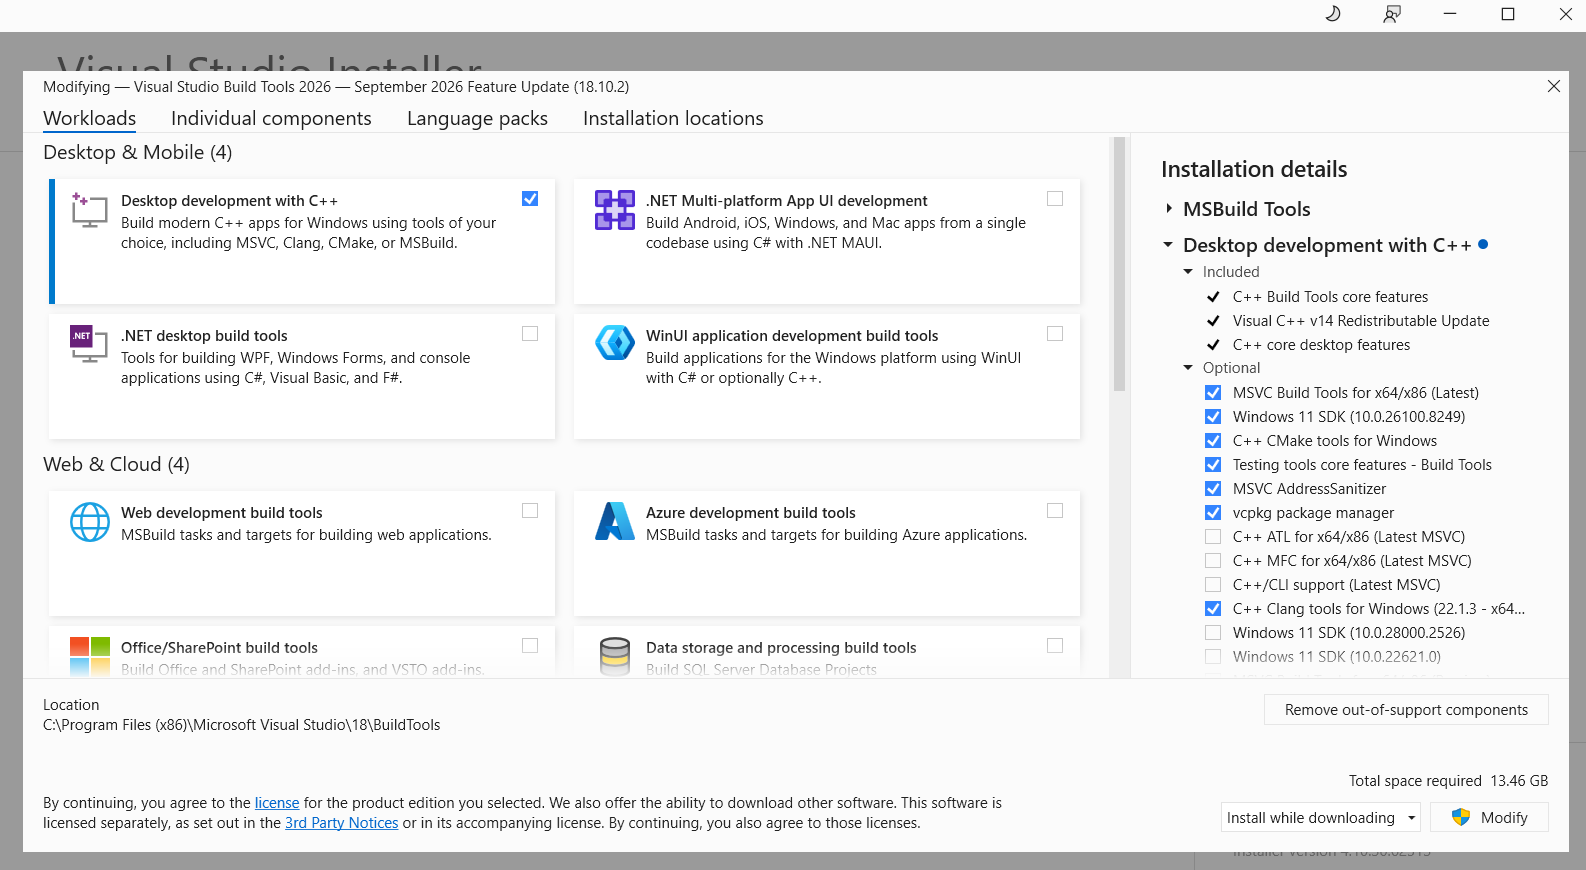
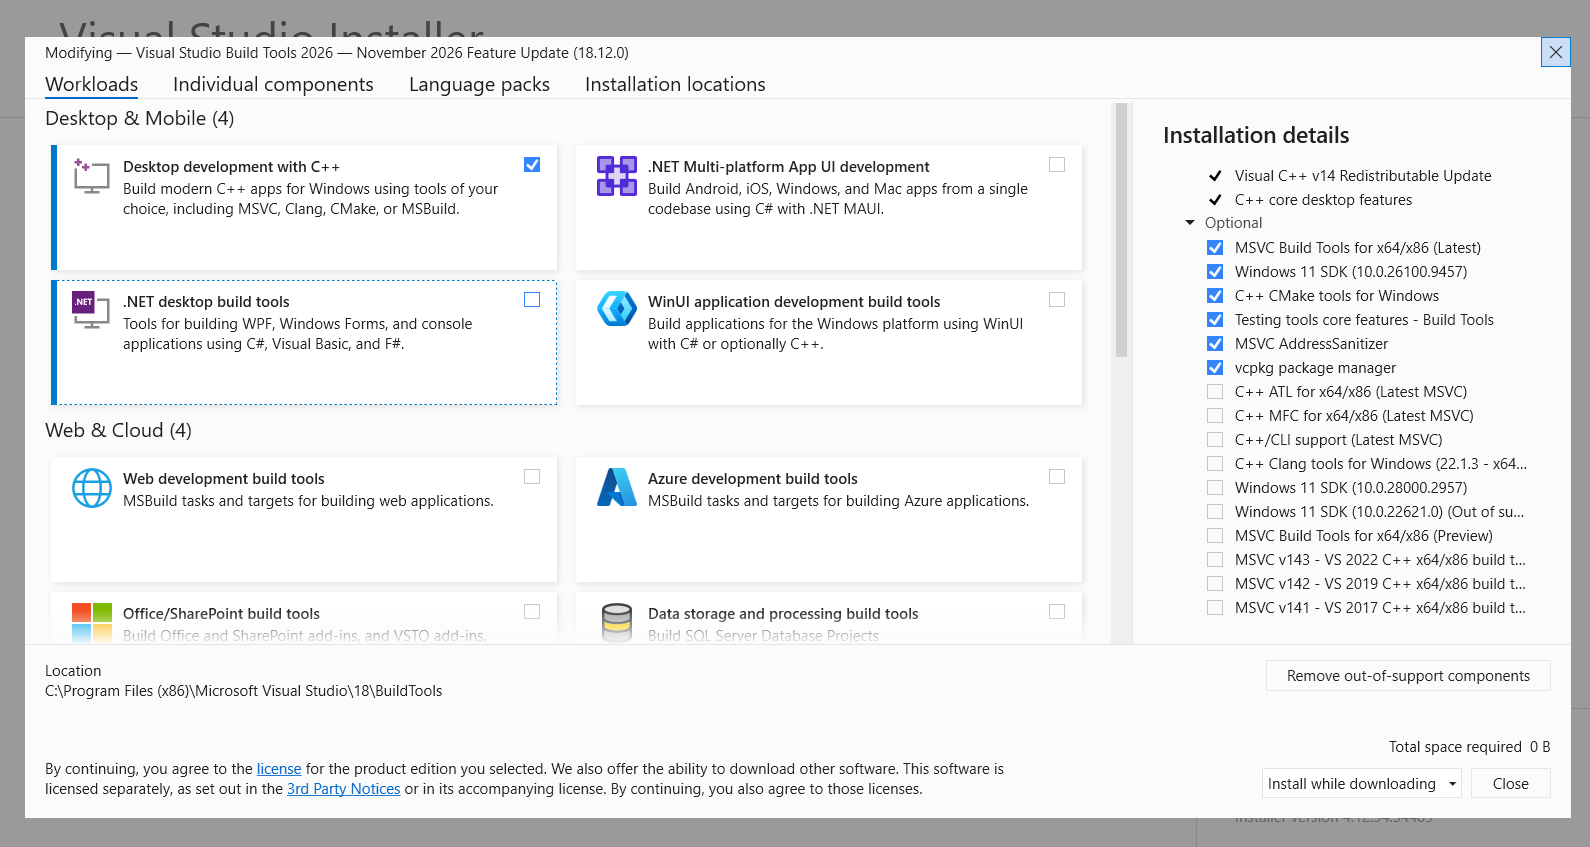
Add support for development of sand-sim on Windows.
- Restructure README.md to have dedicated sections for setting up sand-sim development.
- Update README.md with instructions on how to use 'compiledb' to generate 'compile_commands.json' for use with 'clang-tidy'.
- Update README.md with instructions on how to use LLDB with sand-sim on Windows.
- Add support for creating debug compile of sand-sim on Windows with ASAN and UBSAN enabled.
- Edit Windows compile to use official LLVM toolchain for 'clang' and 'lldb' rather than MS Build Tools 'C++ Clang tools'.
- Edit NMAKE Makefile to use Unix-style filepaths. Change Windows compile to depend on Git Bash accordingly.
- Rename 'build.bat' to 'enter_bash.bat'. Script no longer builds, but fully sets up a developer command prompt.
- Update .clang-tidy to only analyze headers inside 'src', rather than in 'libs' as well.
- Update README demo assets for 2026 MS Build Tools.
- Fix DEBUG_CFLAGS nested symbol evaluation not working on NMAKE.

diff --git a/README.md b/README.md
@@ -7,7 +7,7 @@ Sand falls, water flows, steam rises, wood burns, fire extinguishes!
 
 Written in C23 using [SDL3](https://www.libsdl.org/).
 
-Personal project by Daniel Galvan.
+Personal learner project by Daniel Galvan.
 
 ![Demo of Program](assets/demo/demo.gif)
 
@@ -203,71 +203,23 @@ Then the Windows cross-compile can be run on Linux like so:
 wine ./sand-sim.exe
 ```
 
-
-If developing sand-sim, the provided `.clang-tidy` file enables usage of [clangd](https://clangd.llvm.org/) as a C language server.
-
-To generate the requisite `compile_commands.json` required by clangd, use [Bear](https://github.com/rizsotto/Bear).
-
-First install Bear:
-```bash
-sudo apt install bear
-```
-
-Then use Bear to generate a compilation database from sand-sim's compile command:
-```bash
-make clean
-bear -- make
-```
-
-Now opening the project root directory:
-```bash
-code .
-```
-will allow an installed [clangd VSCode extension](https://marketplace.visualstudio.com/items?itemName=llvm-vs-code-extensions.vscode-clangd) to recognize sand-sim's dependencies and provide
-in-editor documentation.
-
-With a created `compile_commands.json`, the [Clang Static Analyzer](https://clang-analyzer.llvm.org/) can be used via clang-tidy to analyze the sand-sim source against the defined checks in `.clang-tidy`.
-
-First install clang-tidy:
-
-```bash
-sudo apt install clang-tidy
-```
-
-Then run clang-tidy static analysis against the source code via `compile_commands.json` like so:
-
-```bash
-run-clang-tidy
-```
-
-The clang-tidy conventions used by sand-sim follow those specified by the [RHEL docs](https://developers.redhat.com/blog/2021/04/06/get-started-with-clang-tidy-in-red-hat-enterprise-linux#using_clang_tidy_in_red_hat_enterprise_linux) and the [official LLVM docs](https://clang.llvm.org/extra/clang-tidy/).
-
-A debug compile of sand-sim which is enabled to run with [AddressSanitizer](https://releases.llvm.org/20.1.0/tools/clang/docs/AddressSanitizer.html) is also available.
-
-The debug sand-sim compile additionally disables optimization and generates DWARF symbols for use with LLDB. 
-In order to use it, the llvm toolchain must be installed:
-
-```bash
-# Enable usage of `llvm-symbolizer` in PATH.
-sudo apt install llvm
-```
-
-sand-sim can then be compiled for debugging like so:
-
-```bash
-make debug
-```
-
-And run with Address+LeakSanitizer stack tracing like so:
-```bash
-ASAN_OPTIONS=fast_unwind_on_malloc=false ./sand-sim
-```
-
 ### Compiling on Windows
 
-Compiling sand-sim on Windows requires the Visual Studio Build Tools 2026.
+Compiling sand-sim on Windows requires the Microsoft C runtime from Visual Studio Build Tools 2026, the LLVM toolchain, and Git Bash.
 
-On the command line, the installer for Build Tools can be downloaded using [winget](https://learn.microsoft.com/en-us/windows/package-manager/winget/), the official Windows package manager, like so:
+Git Bash is likely already installed, assuming `git` was used to clone sand-sim, as the two come together on Git for Windows. 
+If `git` is not installed, it can be installed using [winget](https://learn.microsoft.com/en-us/windows/package-manager/winget/), the official Windows package manager, like so:
+
+```bash
+winget install --id=Git.Git -e
+```
+
+The LLVM toolchain can be installed similarly:
+```bash
+winget install --id=LLVM.LLVM -e
+```
+
+Finally, the installer for Build Tools: 
 
 ```bash
 winget install --id=Microsoft.VisualStudio.BuildTools -e
@@ -283,30 +235,231 @@ Once installed (using either method above), open the Visual Studio Installer and
 
 ![Demo of Modify Button](assets/demo/visual_studio_modify.png)
 
-Inside Build Tools workloads, enable "Desktop development with C++" and (under the
-"Optional" packages) enable "C++ Clang tools for Windows" as shown below:
+Inside Build Tools workloads, enable "Desktop development with C++".
 
 ![Demo of Visual Studio](assets/demo/visual_studio_installer.png)
 
-Click "Modify" on the bottom right of the installer and allow the Visual Studio Installer to install clang and MSVC.
+Click "Modify" on the bottom right of the installer and allow the Visual Studio Installer to install MSVC and the Microsoft C runtime environment.
 
-Once finished, sand-sim's Windows version can be built from the project root directory by
-running the `build.bat` auxiliary script:
+After Build Tools has finished, it is recommended to restart the machine to ensure all the installed dependencies can be correctly recognized in PATH. 
+
+Once finished, sand-sim's Windows version can be built from the project root directory.
+
+First enter a build environment by running the `enter_bash.bat` auxiliary script:
 
 ```bash
-.\build.bat
+.\enter_bash.bat
 ```
 
-This will produce a binary called `sand-sim.exe` which can be executed to run the program. 
-The build script will also generate the necessary SDL3 DLLs next to `sand-sim.exe` to
-allow the binary to run.
+This script will open a Developer-enabled Git Bash command prompt which allows the MSVC C runtime and clang from LLVM to be available in PATH.
 
-As with the MinGW build, the necessary pre-compiled MSVC builds of SDL3 are provided
-with the source of sand-sim.
+sand-sim can then be built into a binary `sand-sim.exe` by calling Microsoft NMAKE:
 
-As well, if compiling on Windows, no additional installation of the Microsoft Visual C++ v14 Redistributable is necessary, since the Microsoft C runtime comes bundled with the "Desktop development with C++" workload.
+```bash
+# (Inside Git Bash)
+nmake
+./sand-sim.exe
+```
 
-Developing sand-sim as a solution inside Windows Visual Studio is not supported. Prefer instead to use a Linux environment on Windows via WSL2.
+The build command will generate the necessary pre-compiled MSVC builds of the SDL3 DLLs next to `sand-sim.exe` to
+allow the binary to run, so no separate install of SDL3 is necessary.
+
+No additional installation of the Microsoft Visual C++ v14 Redistributable is necessary, since the Microsoft C runtime comes bundled with the "Desktop development with C++" workload.
+
+The opened Git Bash command prompt can additionally be used to clean up the project directory of compiler artifacts:
+```bash
+nmake clean
+```
+
+
+## Development Environment Setup
+
+Building sand-sim is entirely CLI-based, so any popular C/C++ IDE or text editor can be used. 
+
+VSCode and CLion are recommended for their native integration with [clangd](https://clangd.llvm.org/) as a C language server.
+
+clangd requires a `compile_commands.json` to provided proper language server analysis. Having a compilation database present at the project root allows CLion or VSCode with an installed [clangd VSCode extension](https://marketplace.visualstudio.com/items?itemName=llvm-vs-code-extensions.vscode-clangd) to recognize sand-sim's dependencies and provide
+in-editor hints and documentation.
+
+With a created `compile_commands.json`, the [Clang Static Analyzer](https://clang-analyzer.llvm.org/) can be also used via clang-tidy to analyze the sand-sim source against the defined checks in the provided `.clang-tidy` at project root. This `.clang-tidy` file defines several checks that lint the sand-sim codebase for error-prone C code, while also providing reasonable exceptions for idiomatic C.
+
+The instructions that follow assume the necessary steps have first been taken to build sand-sim.
+
+### Developing on Linux
+
+To generate `compile_commands.json`, either use [Bear](https://github.com/rizsotto/Bear) or [compiledb](https://github.com/nickdiego/compiledb). This document recommends compiledb, as it is the more cross-platform of the two.
+
+compiledb requires Python 3.3 or higher. Any Debian-based distribution should have Python already installed out-of-the-box, however the ability to make Python virtual environments may not necessarily be available.
+
+To [avoid breaking Debian](https://wiki.debian.org/DontBreakDebian) (and Debian-based systems), do not install Python packages system-wide via `pip`. Prefer to use a virtual environment instead to isolate the compiledb dependency
+
+Install python-venv if not already available:
+
+```bash
+sudo apt install python3-venv
+```
+
+Then create a virtual environment and install compiledb:
+
+```bash
+python3 -m venv .venv
+source .venv/bin/activate
+pip install compiledb
+```
+
+compiledb can then be used to generate a compilation database from sand-sim's compile command:
+```bash
+make clean
+compiledb make
+```
+
+Alternatively, using Bear, Bear can be installed as below:
+```bash
+sudo apt install bear
+```
+
+Then Bear can be used to generate a compilation database from sand-sim's compile command:
+```bash
+make clean
+bear -- make
+```
+
+clang-tidy can then be run to provide detailed analysis on potentially problematic code. 
+
+First install clang-tidy:
+
+```bash
+sudo apt install clang-tidy
+```
+
+Then run clang-tidy static analysis against the source code using `compile_commands.json` like so:
+
+```bash
+run-clang-tidy
+```
+
+The clang-tidy conventions used by sand-sim follow those specified by the [RHEL docs](https://developers.redhat.com/blog/2021/04/06/get-started-with-clang-tidy-in-red-hat-enterprise-linux#using_clang_tidy_in_red_hat_enterprise_linux) and the [official LLVM docs](https://clang.llvm.org/extra/clang-tidy/).
+
+A debug compile of sand-sim is also available, enabled to run with [AddressSanitizer](https://releases.llvm.org/20.1.0/tools/clang/docs/AddressSanitizer.html).
+
+The debug sand-sim compile additionally disables optimization and generates DWARF symbols for use with LLDB.
+In order to use ASAN, the LLVM toolchain must be installed:
+
+```bash
+# Enable usage of `llvm-symbolizer` in PATH.
+sudo apt install llvm
+```
+
+sand-sim can then be compiled for debugging like so:
+
+```bash
+make debug
+```
+
+And run with combined AddressSanitizer  + LeakSanitizer stack tracing like so:
+```bash
+ASAN_OPTIONS=fast_unwind_on_malloc=false ./sand-sim
+```
+
+### Developing on Windows
+
+> [!TIP]
+> If using an IDE instead of a simple text editor, you will likely want to start it from within the sand-sim project root inside a developer-enabled Git Bash from `enter_bash.bat`. This way clang, LLDB, ASAN, and the MSVC C runtime are available in PATH to the IDE.
+
+To generate `compile_commands.json`, use [compiledb](https://github.com/nickdiego/compiledb). 
+
+compiledb requires Python 3.3 or higher. Install Python 3.14 using the Windows package manager:
+
+```bash
+winget install Python.Python.3.14
+```
+
+A virtual environment should be created to contain the compiledb install. First open the developer-enabled Git Bash via `enter_bash.bat`, then inside the Git Bash developer command prompt:
+
+```bash
+# Explicitly use Python 3.14 to create this venv.
+py -3.14 -m venv .venv
+source .venv\Scripts\Activate
+python -m pip install --upgrade pip
+```
+
+compiledb can then be installed:
+```bash
+pip install compiledb
+```
+
+From inside Git Bash, as opened by `enter_bash.bat`, compiledb can then be used to generate a compilation database by feeding it sand-sim's compile command:
+```bash
+nmake clean
+nmake | compiledb
+```
+
+clang-tidy can further be run inside Git Bash to provide detailed analysis on potentially problematic code. 
+
+Assuming the instructions to build sand-sim on Windows were followed, then clang-tidy should already be installed from the LLVM toolchain and be available inside `enter_bash.bat`.
+
+Unlike Linux, Windows will install Python as `python`, which is not compatible with clang-tidy's `run-clang-tidy` script, where `python3` is required.
+
+There are several ways to get around this, but the simplest is to create a copy of the `python.exe` binary inside the created virtual environment called `python3.exe` while in Git Bash:
+
+```bash
+# Make sure you're in Git Bash to enable use of GNU Coreutils
+cp .venv/Scripts/python.exe .venv/Scripts/python3.exe
+```
+
+Then, from inside `enter_bash.bat`, run clang-tidy static analysis against the source code via the `compile_commands.json` produced from compiledb like so:
+
+```bash
+# You must enter the Python 3.14 venv inside Git Bash if not already inside it.
+run-clang-tidy
+```
+
+The above command may fail in Git Bash with an error `/usr/bin/env: ‘python3’: No such file or directory` or `Python was not found` if `python3.exe` is not available in the Python virtual environment as previously instructed above.
+
+The clang-tidy conventions used by sand-sim follow those specified by the [RHEL docs](https://developers.redhat.com/blog/2021/04/06/get-started-with-clang-tidy-in-red-hat-enterprise-linux#using_clang_tidy_in_red_hat_enterprise_linux) and the [official LLVM docs](https://clang.llvm.org/extra/clang-tidy/).
+
+A debug compile of sand-sim is also available, enabled to run with [AddressSanitizer](https://releases.llvm.org/20.1.0/tools/clang/docs/AddressSanitizer.html).
+
+The debug sand-sim compile additionally disables optimization and generates DWARF symbols for use with LLDB.
+
+To produce the debug build of sand-sim, first enter a developer-enabled Git Bash terminal:
+
+```bash
+.\enter_bash.bat
+```
+
+Then from inside Git Bash, call NMAKE with the `debug` target:
+
+```bash
+nmake debug
+```
+
+The debug build of `sand-sim.exe` can then be run from within LLDB. 
+
+AddressSanitizer from the official LLVM Windows distribution may sometimes cause LLDB to hang due to conflicts between SDL's WinMain implementation and the MSVC C Runtime. 
+
+If this occurs, to get around this, instruct LLDB to wait for `sand-sim.exe` to start and attach immediately to it once it exists:
+
+```bash
+# (Inside Git Bash)
+lldb --wait-for --attach-name sand-sim.exe
+```
+
+Then in a separate instance of `enter_bash.bat`, start sand-sim:
+
+```bash
+# (Inside Git Bash)
+./sand-sim.exe
+```
+
+LLDB will then catch a SIGTRAP signal and stop sand-sim immediately after initialization, giving an opportunity
+to set breakpoints. Once ready to start, simply pass `continue` to LLDB.
+
+> [!NOTE]
+> The `enter_bash.bat` script assumes that the AddressSanitizer LLVM distribution is avaiable at `C:\Program Files\LLVM\lib\clang\23\lib\windows`, the default install location. If this does not match the LLVM install location, debug compilation may fail, or the resulting sand-sim.exe binary may fail to run in LLDB with "Process prematurely exited with 0xc0000135" due to being unable to find ASAN. Modify `enter_bash.bat` with the appropriate LLVM ASAN install location if this occurs.
+
+> [!WARNING]
+> Do not try to run the debug build of sand-sim outside a developer-enabled Git Bash. It is likely that a normal Windows install does not have the AddresSanitizer LLVM binaries available in PATH, so this will likely fail with "The code execution cannot proceed because clang_rt.asan_dynamic-x86_64.dll was not found."
 
 ## Project and Source File Organization
 
@@ -319,4 +472,4 @@ Developing sand-sim as a solution inside Windows Visual Studio is not supported.
 - `src/sandsim_cli.c` - Argument parsing logic.
 - `GNUmakefile` + `Makefile` - Makefiles specific to GNUmake and Microsoft's NMAKE.
 - `Makefile.common` - Build definitions common to both Linux and Windows ports.
-- `build.bat` - Auxiliary script driving Windows compilation using clang in MSVC-mode.
+- `enter_bash.bat` - Auxiliary script enabling Windows compilation.
